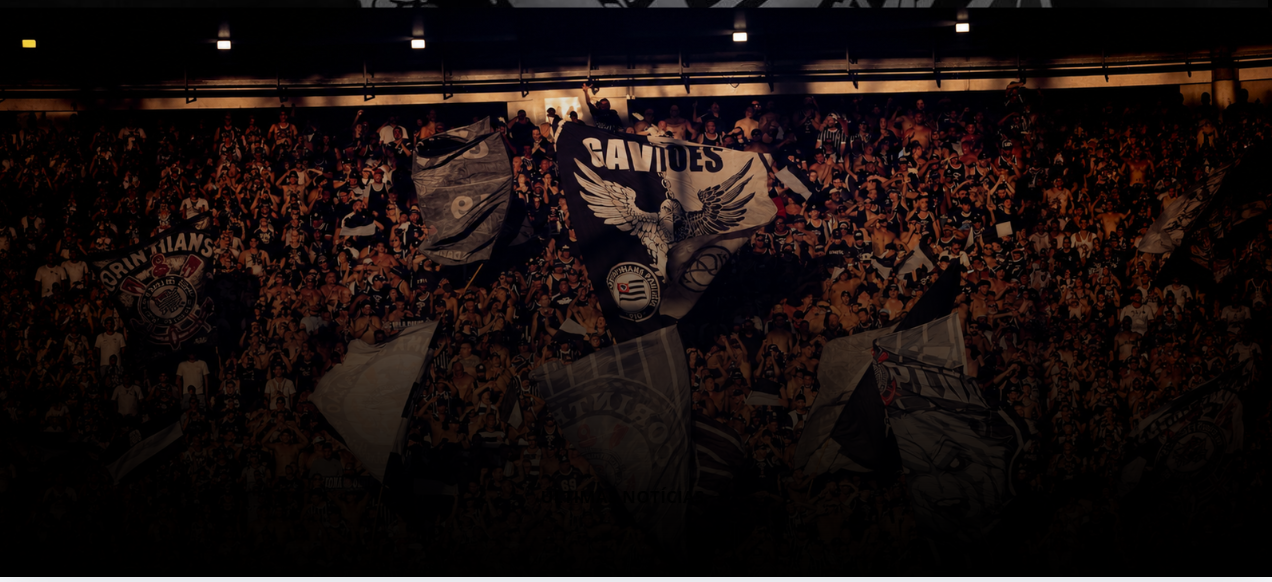
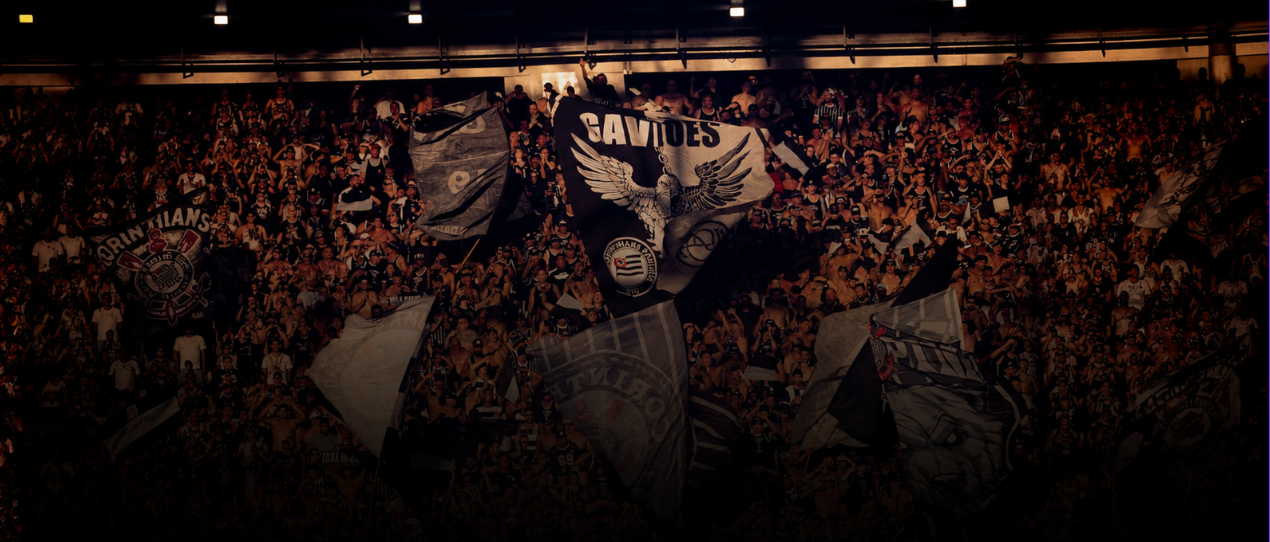
Adicionando a primeira versão da landing page

diff --git a/pagina-inicial.css b/pagina-inicial.css
@@ -22,7 +22,6 @@ header{
     background-size: cover;
     background-repeat: no-repeat;
     background-position: center 38%;
-    background-attachment: absolute;
     height: 8rem;
     width: 100%;
     justify-content: space-between;
@@ -63,19 +62,11 @@ header{
     border: #c8a101 solid 0.22rem;
 }
 
-.bck-img{
-    background-image: url(img/fundo-main.png);
-    background-repeat: no-repeat;
-    height: 100%;  
-    width: 100%;    
-    
-}
-
 .direita{
     display: flex;
     flex-direction: column;
     align-items: flex-end;
-    gap: 2rem;
+    gap: 1rem;
     margin-left: auto;
     padding-right: 2rem;
 }
@@ -84,21 +75,81 @@ header{
     display: flex;
     margin-left: auto;
     color: black;
-    border-color: #c8a101;
-    font-size: 1.2rem;
+    height: 2rem;
+    font-size: 1rem;
+    margin-top: 1.4rem;
+    gap: 0.5rem;
+    margin-right: -1.5rem;
 }
 .cadastro{
+    display: flex;
     background-color: #c1c0c0;
-    border-radius: 10rem;
-    padding: 0.5rem 1.5rem;
+    border-radius: 2rem;
+    padding: 0.2rem 1.2rem;
     border: black 0.1rem solid;
     z-index: 100;
+    gap: 0.5rem;
+    align-items: center;
 }
 
 .login{
     background-color: #c1c0c0;
-    border-radius: 10rem;
-    padding: 0.5rem 1.5rem;
-    margin-left: -1.7rem;
+    border-radius: 2rem;
+    padding:0.3rem 1.2rem;
     border: black 0.1rem solid;
+}
+
+.login:hover{
+    cursor: pointer;
+    transform: scale(1.2);
+}
+
+.cadastro:hover{
+    cursor: pointer;
+    transform: scale(1.2);
+}
+
+.bck-img{
+    background-image: url(img/fundo-main.png);
+    background-repeat: no-repeat;
+    background-size: cover;
+    background-position: center 38%;
+    height: 46.3rem;
+    display: flex;
+    align-items: center;
+    justify-content: center;
+    flex-direction: column;
+}
+
+.hero-1{
+    margin-top: 10rem;
+    gap: 0.5rem;
+    align-items: center;
+    text-align: center;
+    color: #c1c0c0;
+    font-size: 3.5rem;
+    font-family: sans-serif;
+}
+
+.cor-diferente{
+    color: #c8a101;
+}
+
+.texto-menor{
+    font-size: 1.5rem;
+    margin-top: 1rem;
+    color: white;
+}
+
+.botao{
+    margin-top: 4rem;
+    border-radius: 0.8rem;
+    padding: 0.7rem 1.5rem;
+    background-color: #c8a101;
+    font-size: 1.2rem;
+}
+
+.botao:hover{
+    cursor: pointer;
+    transform: scale(1.2);
 }

diff --git a/pagina-inicial.html b/pagina-inicial.html
@@ -14,10 +14,9 @@
          <div class="fala-fiel">
         Fala <br> Fiel
         </div>
-        
         <div class="direita">
             <div class="cadastrar-login">
-                <p class="cadastro">cadastrar</p> <p class="login">login</p>
+                <p class="cadastro" >cadastrar</p> <p class="login">login</p>
             </div>
             <section class="links">
                 <a href="https://www.instagram.com/corinthians/"><img src="img/instagram.png" alt=""></a>
@@ -31,9 +30,16 @@
 
     <main>
         <div class="borda"></div>
-    <div class="bck-img">
-
+        <div class="bck-img">
+            <h1 class="hero-1">O PORTAL DA <span class="cor-diferente"> FIEL TORCIDA:</span><br>A VOZ DO <span class="cor-diferente">CORINTHIANS.</span></h1>
+           <div class="texto-menor">
+                <p>NOTÍCIAS, OPINIÔES E HISTÓRIA DO TIMÃO</p>
+            </div>
+            <div class="botao">
+                <p>Últimas Notícias</p>
+            </div>
     </div>
+     
     </main>
 
     <footer>
